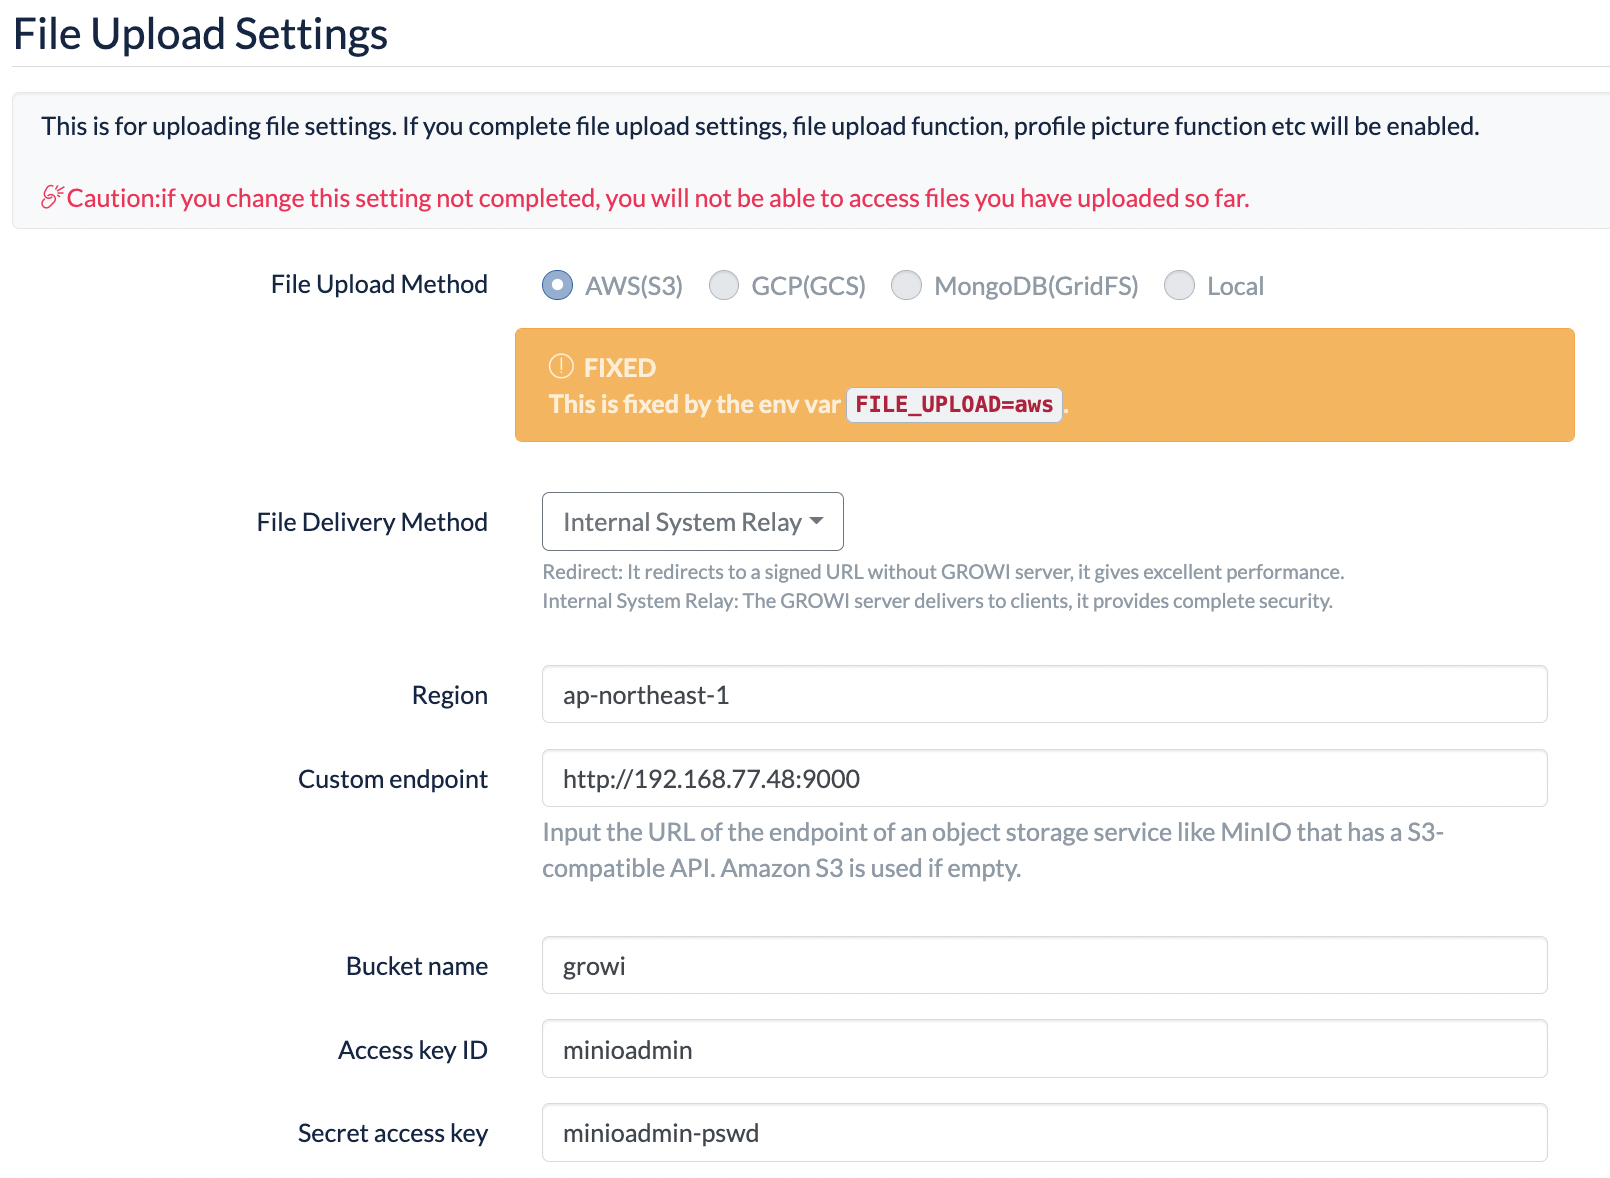
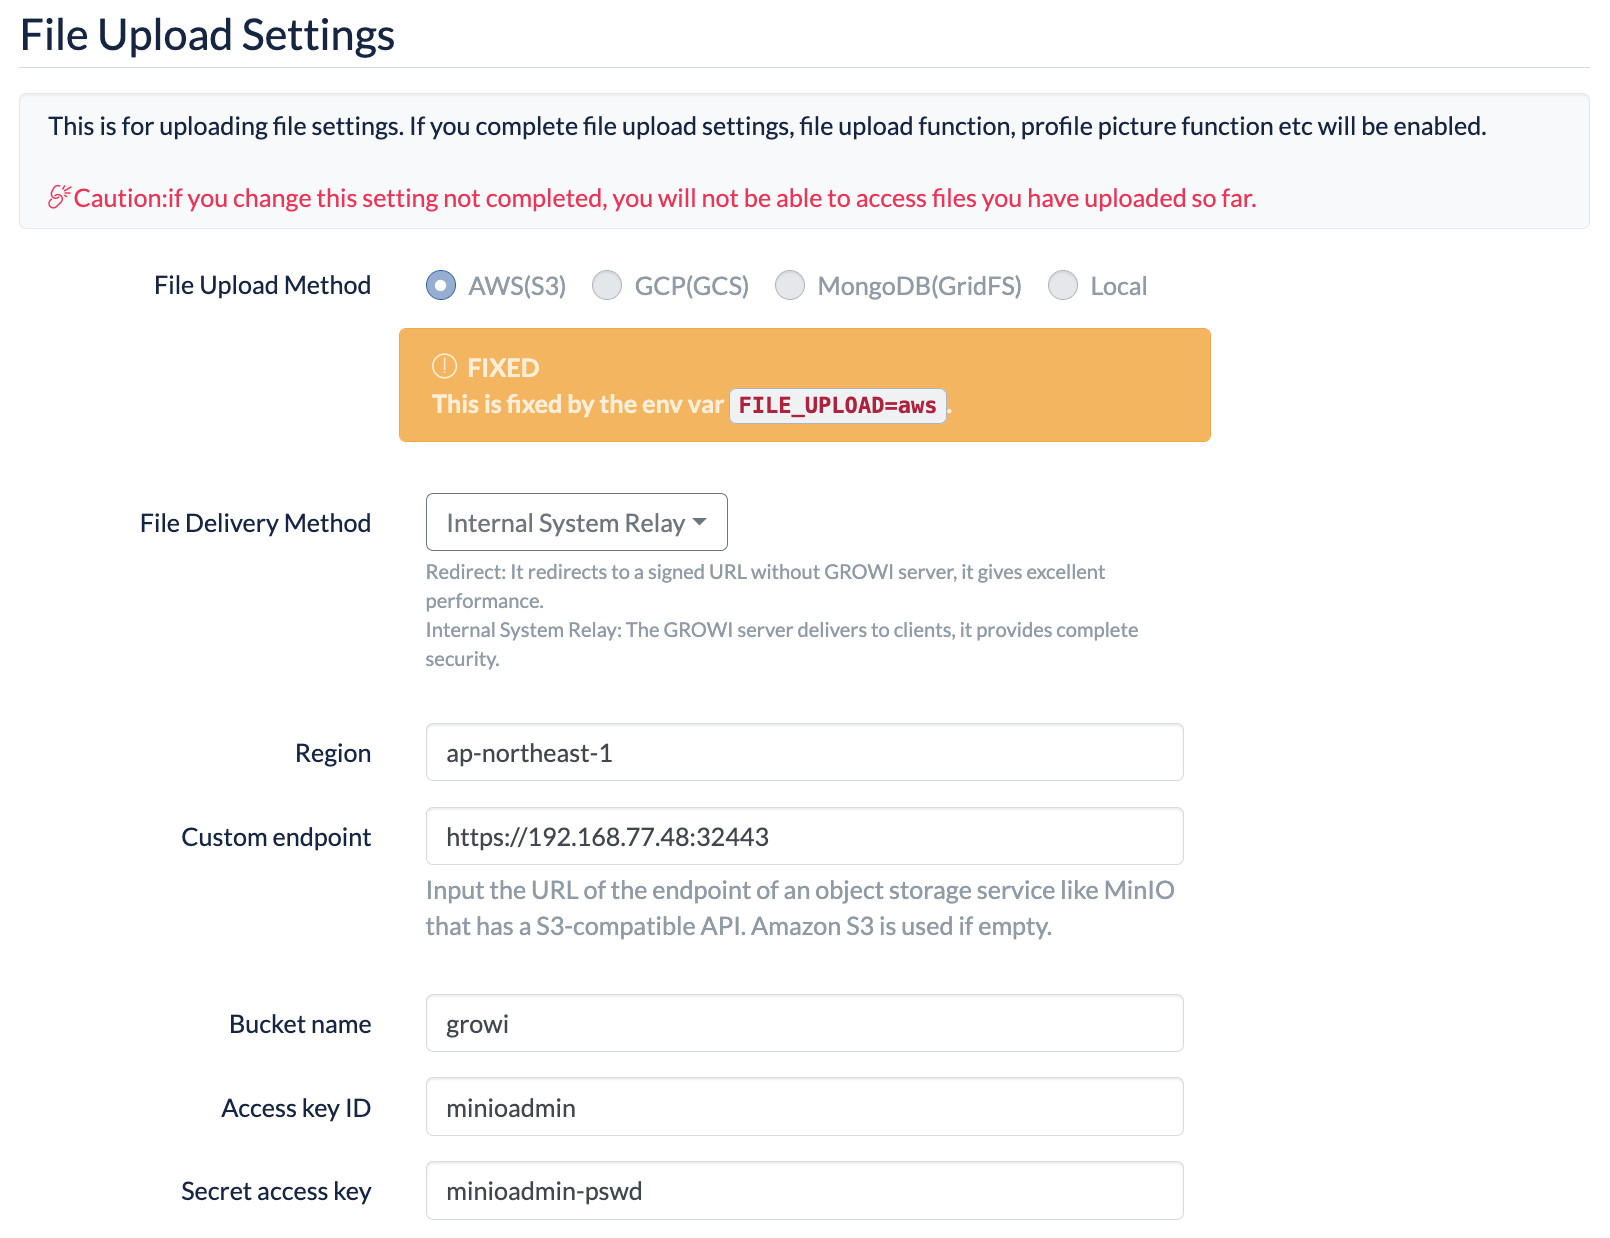
support growi tls with self-signed certs

diff --git a/README.md b/README.md
@@ -233,12 +233,14 @@ Compose file to launch GitLab and Growi with Keycloak on the local machine.
 
             |Section|key|value|
             |---|---|---|
-            |File Upload Settings|File Delivery Method|`Internal System Relay`|
+            |File Upload Settings|File Delivery Method (*)|`Internal System Relay`|
             ||Region|`ap-northeast-1`|
             ||Custom endpoint|`growi`|
             ||Bucket name|`http://192.168.77.48:9000`|
             ||Access key ID|`minioadmin`|
             ||Secret access key|`minioadmin-pswd`|
+
+            (*) File Delivery Method `Redirect` does not work for me.
 
         ![growi-minio](doc/images/growi-minio.png)
 
@@ -296,3 +298,5 @@ Compose file to launch GitLab and Growi with Keycloak on the local machine.
     - https://docs.min.io/docs/deploy-minio-on-docker-compose.html
     - https://docs.min.io/docs/minio-quickstart-guide.html
         - about `MINIO_BROWSER_REDIRECT_URL`
+- [mongo-express](https://hub.docker.com/_/mongo-express)
+- [nginx](https://hub.docker.com/_/nginx)

diff --git a/doc/self-signed-certs.md b/doc/self-signed-certs.md
@@ -34,10 +34,12 @@
     cp localhost+2.pem ldap.crt \
     && cp localhost+2.pem ldapadmin.crt \
     && cp localhost+2.pem keycloak.crt \
-    && cp localhost+2.pem minio.crt
+    && cp localhost+2.pem minio.crt \
+    && cp localhost+2.pem growi.crt
 
     cp localhost+2-key.pem ldap.key \
     && cp localhost+2-key.pem ldapadmin.key \
     && cp localhost+2-key.pem keycloak.key \
-    && cp localhost+2-key.pem minio.key
+    && cp localhost+2-key.pem minio.key \
+    && cp localhost+2-key.pem growi.key
     ```
